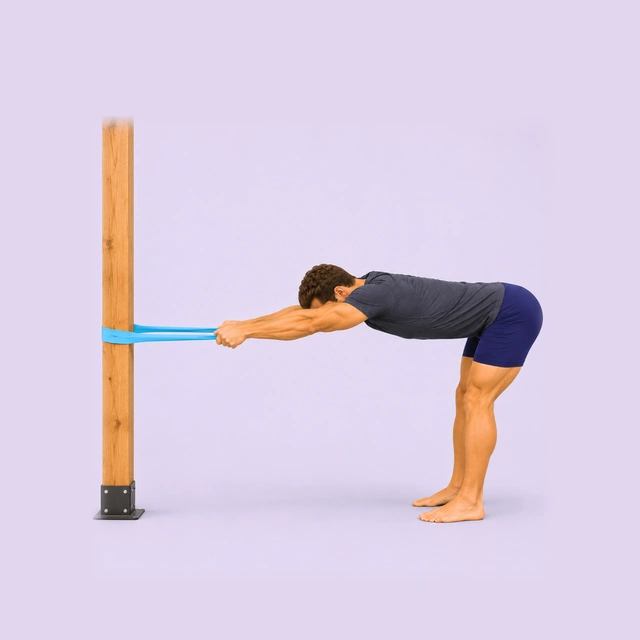
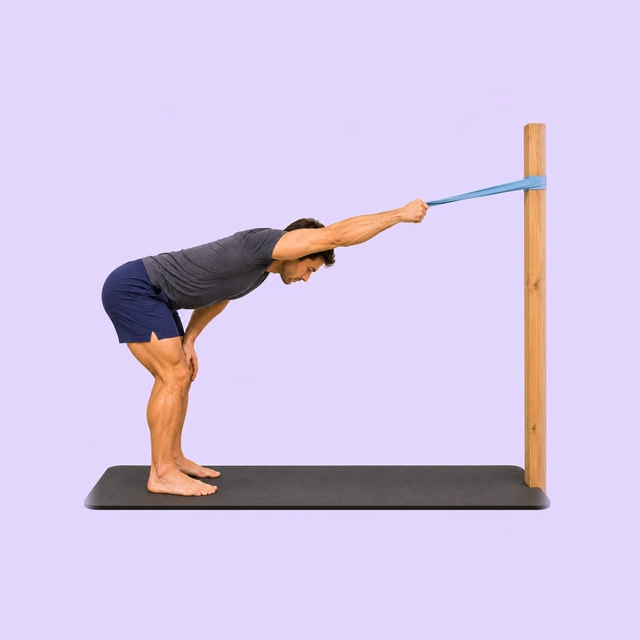
Publish cda5ddc6b18a: all 66 woman pictures, the Band Lat Stretch and Front Leg Swings redraws, and the first-week fixes (hockey plans, no '30 s holds' on moving routines)
Built from ccomp2013/meflex-source publish-abc (#15 + #32 + #28). Only index.html, sw.js and figures/*.webp.

Claude-Session: https://claude.ai/code/session_01VNuq4d9RwdVpz2hhqNG4nu

Changed region(s): [[0.125, 0.1562, 0.875, 0.8438]]

diff --git a/meflex-site/meflex-site/sw.js b/meflex-site/meflex-site/sw.js
@@ -5,7 +5,7 @@
 // those go to the network exactly as without it. It sends nothing of its own except fetching FILES from the site.
 // It never stores personal data: history, routines, settings and answers live in the page's own storage, not here.
 // A new version waits until the person taps Reload ("A new version is ready"); it never takes over by itself.
-const VERSION = 'ea75e2884296';
+const VERSION = 'cda5ddc6b18a';
 const FILES = ["index.html", "manifest.webmanifest", "apple-touch-icon.png", "icon-192.png", "icon-512.png"];
 // Nov 15 (recorded voice on the website): every recording the page may ask for (voice/manifest.json and voice/<key>.m4a).
 // None is fetched at install (4.2 MB). Each is kept the first time the page fetches it: the list when the Voice or coach
@@ -15,7 +15,7 @@ const VOICE = ["voice/manifest.json", "voice/001278fc.m4a", "voice/0012bbdf.m4a"
 // fetched at install (that could be many megabytes). Each one is kept the first time the page shows it, and the page
 // asks for a routine's player pictures when that routine is opened, so a routine started with a signal still has them
 // with none. They live in their own cache, which survives app updates; only pictures no longer listed are removed.
-const PICS = ["figures/ankledf-192.webp?v=2fbe904b", "figures/ankledf-640.webp?v=2fbe904b", "figures/ankledf-960.webp?v=2fbe904b", "figures/anklerock-192.webp?v=cd11ad1b", "figures/anklerock-640.webp?v=cd11ad1b", "figures/anklerock-960.webp?v=cd11ad1b", "figures/armcircles-192.webp?v=4655a5b3", "figures/armcircles-640.webp?v=4655a5b3", "figures/armcircles-960.webp?v=4655a5b3", "figures/bandadd-192.webp?v=7cb4ad47", "figures/bandadd-640.webp?v=7cb4ad47", "figures/bandadd-960.webp?v=7cb4ad47", "figures/bandcalf-192.webp?v=a96d5053", "figures/bandcalf-640.webp?v=a96d5053", "figures/bandcalf-960.webp?v=a96d5053", "figures/bandchest-192.webp?v=093ec867", "figures/bandchest-640.webp?v=093ec867", "figures/bandchest-960.webp?v=093ec867", "figures/bandcross-192.webp?v=690bf78d", "figures/bandcross-640.webp?v=690bf78d", "figures/bandcross-960.webp?v=690bf78d", "figures/bandham-192.webp?v=cc7fd8df", "figures/bandham-640.webp?v=cc7fd8df", "figures/bandham-960.webp?v=cc7fd8df", "figures/bandlat-192.webp?v=4703eeea", "figures/bandlat-640.webp?v=4703eeea", "figures/bandlat-960.webp?v=4703eeea", "figures/bandquad-192.webp?v=407bae69", "figures/bandquad-640.webp?v=407bae69", "figures/bandquad-960.webp?v=407bae69", "figures/butterfly-192.webp?v=ed941436", "figures/butterfly-640.webp?v=ed941436", "figures/butterfly-960.webp?v=ed941436", "figures/buttkicks-192.webp?v=08e6effa", "figures/buttkicks-640.webp?v=08e6effa", "figures/buttkicks-960.webp?v=08e6effa", "figures/calf-192.webp?v=0a14d5c0", "figures/calf-640.webp?v=0a14d5c0", "figures/calf-960.webp?v=0a14d5c0", "figures/calfdrop-192.webp?v=97c87646", "figures/calfdrop-640.webp?v=97c87646", "figures/calfdrop-960.webp?v=97c87646", "figures/catcow-192.webp?v=0cbc84a2", "figures/catcow-640.webp?v=0cbc84a2", "figures/catcow-960.webp?v=0cbc84a2", "figures/chairfig4-192.webp?v=3156b617", "figures/chairfig4-640.webp?v=3156b617", "figures/chairfig4-960.webp?v=3156b617", "figures/chairham-192.webp?v=79f2fa67", "figures/chairham-640.webp?v=79f2fa67", "figures/chairham-960.webp?v=79f2fa67", "figures/chestclasp-192.webp?v=1909fb8b", "figures/chestclasp-640.webp?v=1909fb8b", "figures/chestclasp-960.webp?v=1909fb8b", "figures/child-192.webp?v=e30eb409", "figures/child-640.webp?v=e30eb409", "figures/child-960.webp?v=e30eb409", "figures/chintuck-192.webp?v=a55b103f", "figures/chintuck-640.webp?v=a55b103f", "figures/chintuck-960.webp?v=a55b103f", "figures/cobra-192.webp?v=3b105fed", "figures/cobra-640.webp?v=3b105fed", "figures/cobra-960.webp?v=3b105fed", "figures/cossack-192.webp?v=711ddeef", "figures/cossack-640.webp?v=711ddeef", "figures/cossack-960.webp?v=711ddeef", "figures/couch-192.webp?v=45f44fa8", "figures/couch-640.webp?v=45f44fa8", "figures/couch-960.webp?v=45f44fa8", "figures/crossbody-192.webp?v=5f496ae8", "figures/crossbody-640.webp?v=5f496ae8", "figures/crossbody-960.webp?v=5f496ae8", "figures/dbfly-192.webp?v=10563170", "figures/dbfly-640.webp?v=10563170", "figures/dbfly-960.webp?v=10563170", "figures/doorway-192.webp?v=d289783c", "figures/doorway-640.webp?v=d289783c", "figures/doorway-960.webp?v=d289783c", "figures/downdog-192.webp?v=3109fa5a", "figures/downdog-640.webp?v=3109fa5a", "figures/downdog-960.webp?v=3109fa5a", "figures/figure4-192.webp?v=75c67c42", "figures/figure4-640.webp?v=75c67c42", "figures/figure4-960.webp?v=75c67c42", "figures/fold-192.webp?v=9a4d92d0", "figures/fold-640.webp?v=9a4d92d0", "figures/fold-960.webp?v=9a4d92d0", "figures/frog-192.webp?v=bf22872d", "figures/frog-640.webp?v=bf22872d", "figures/frog-960.webp?v=bf22872d", "figures/gate-192.webp?v=dd91927a", "figures/gate-640.webp?v=dd91927a", "figures/gate-960.webp?v=dd91927a", "figures/goblet-192.webp?v=47dedac9", "figures/goblet-640.webp?v=47dedac9", "figures/goblet-960.webp?v=47dedac9", "figures/groinhold-192.webp?v=d1287163", "figures/groinhold-640.webp?v=d1287163", "figures/groinhold-960.webp?v=d1287163", "figures/halfsplit-192.webp?v=f27b0572", "figures/halfsplit-640.webp?v=f27b0572", "figures/halfsplit-960.webp?v=f27b0572", "figures/happybaby-192.webp?v=d1ab1006", "figures/happybaby-640.webp?v=d1ab1006", "figures/happybaby-960.webp?v=d1ab1006", "figures/highknees-192.webp?v=a209c5df", "figures/highknees-640.webp?v=a209c5df", "figures/highknees-960.webp?v=a209c5df", "figures/hiplunge-192.webp?v=2f89a04e", "figures/hiplunge-640.webp?v=2f89a04e", "figures/hiplunge-960.webp?v=2f89a04e", "figures/inchworm-192.webp?v=344036cf", "figures/inchworm-640.webp?v=344036cf", "figures/inchworm-960.webp?v=344036cf", "figures/kneeschest-192.webp?v=b5d6dc38", "figures/kneeschest-640.webp?v=b5d6dc38", "figures/kneeschest-960.webp?v=b5d6dc38", "figures/lateral-192.webp?v=25f04159", "figures/lateral-640.webp?v=25f04159", "figures/lateral-960.webp?v=25f04159", "figures/legswing-192.webp?v=24d09d3d", "figures/legswing-640.webp?v=24d09d3d", "figures/legswing-960.webp?v=24d09d3d", "figures/levator-192.webp?v=8760091f", "figures/levator-640.webp?v=8760091f", "figures/levator-960.webp?v=8760091f", "figures/lizard-192.webp?v=8d0d0fd1", "figures/lizard-640.webp?v=8d0d0fd1", "figures/lizard-960.webp?v=8d0d0fd1", "figures/lunge-192.webp?v=25293428", "figures/lunge-640.webp?v=25293428", "figures/lunge-960.webp?v=25293428", "figures/lyingham-192.webp?v=1cb729bc", "figures/lyingham-640.webp?v=1cb729bc", "figures/lyingham-960.webp?v=1cb729bc", "figures/necktilt-192.webp?v=6dc8f687", "figures/necktilt-640.webp?v=6dc8f687", "figures/necktilt-960.webp?v=6dc8f687", "figures/neckturn-192.webp?v=50a8b26d", "figures/neckturn-640.webp?v=50a8b26d", "figures/neckturn-960.webp?v=50a8b26d", "figures/passthrough-192.webp?v=ed8b9ed1", "figures/passthrough-640.webp?v=ed8b9ed1", "figures/passthrough-960.webp?v=ed8b9ed1", "figures/pigeon-192.webp?v=b20192ee", "figures/pigeon-640.webp?v=b20192ee", "figures/pigeon-960.webp?v=b20192ee", "figures/postwall-192.webp?v=ad875854", "figures/postwall-640.webp?v=ad875854", "figures/postwall-960.webp?v=ad875854", "figures/pullover-192.webp?v=e8820e95", "figures/pullover-640.webp?v=e8820e95", "figures/pullover-960.webp?v=e8820e95", "figures/puppy-192.webp?v=8e5dd34e", "figures/puppy-640.webp?v=8e5dd34e", "figures/puppy-960.webp?v=8e5dd34e", "figures/quad-192.webp?v=6250f0f8", "figures/quad-640.webp?v=6250f0f8", "figures/quad-960.webp?v=6250f0f8", "figures/rdlhold-192.webp?v=147b3bbf", "figures/rdlhold-640.webp?v=147b3bbf", "figures/rdlhold-960.webp?v=147b3bbf", "figures/seatedtwist-192.webp?v=c94f4c98", "figures/seatedtwist-640.webp?v=c94f4c98", "figures/seatedtwist-960.webp?v=c94f4c98", "figures/sidebend-192.webp?v=610313c9", "figures/sidebend-640.webp?v=610313c9", "figures/sidebend-960.webp?v=610313c9", "figures/sidequad-192.webp?v=c3d587b5", "figures/sidequad-640.webp?v=c3d587b5", "figures/sidequad-960.webp?v=c3d587b5", "figures/sideswing-192.webp?v=9d98492e", "figures/sideswing-640.webp?v=9d98492e", "figures/sideswing-960.webp?v=9d98492e", "figures/skatestance-192.webp?v=6f9565a9", "figures/skatestance-640.webp?v=6f9565a9", "figures/skatestance-960.webp?v=6f9565a9", "figures/sphinx-192.webp?v=8349a4d2", "figures/sphinx-640.webp?v=8349a4d2", "figures/sphinx-960.webp?v=8349a4d2", "figures/standfold-192.webp?v=d3455a11", "figures/standfold-640.webp?v=d3455a11", "figures/standfold-960.webp?v=d3455a11", "figures/suitcase-192.webp?v=faeb34cb", "figures/suitcase-640.webp?v=faeb34cb", "figures/suitcase-960.webp?v=faeb34cb", "figures/thread-192.webp?v=04dc8a99", "figures/thread-640.webp?v=04dc8a99", "figures/thread-960.webp?v=04dc8a99", "figures/torsotwist-192.webp?v=815f4fc0", "figures/torsotwist-640.webp?v=815f4fc0", "figures/torsotwist-960.webp?v=815f4fc0", "figures/twist-192.webp?v=183f0d8f", "figures/twist-640.webp?v=183f0d8f", "figures/twist-960.webp?v=183f0d8f", "figures/walklunge-192.webp?v=cb874fd0", "figures/walklunge-640.webp?v=cb874fd0", "figures/walklunge-960.webp?v=cb874fd0"];
+const PICS = ["figures/ankledf-192.webp?v=2fbe904b", "figures/ankledf-640.webp?v=2fbe904b", "figures/ankledf-960.webp?v=2fbe904b", "figures/anklerock-192.webp?v=cd11ad1b", "figures/anklerock-640.webp?v=cd11ad1b", "figures/anklerock-960.webp?v=cd11ad1b", "figures/armcircles-192.webp?v=4655a5b3", "figures/armcircles-640.webp?v=4655a5b3", "figures/armcircles-960.webp?v=4655a5b3", "figures/bandadd-192.webp?v=7cb4ad47", "figures/bandadd-640.webp?v=7cb4ad47", "figures/bandadd-960.webp?v=7cb4ad47", "figures/bandcalf-192.webp?v=a96d5053", "figures/bandcalf-640.webp?v=a96d5053", "figures/bandcalf-960.webp?v=a96d5053", "figures/bandchest-192.webp?v=093ec867", "figures/bandchest-640.webp?v=093ec867", "figures/bandchest-960.webp?v=093ec867", "figures/bandcross-192.webp?v=690bf78d", "figures/bandcross-640.webp?v=690bf78d", "figures/bandcross-960.webp?v=690bf78d", "figures/bandham-192.webp?v=cc7fd8df", "figures/bandham-640.webp?v=cc7fd8df", "figures/bandham-960.webp?v=cc7fd8df", "figures/bandlat-192.webp?v=af0c8982", "figures/bandlat-640.webp?v=af0c8982", "figures/bandlat-960.webp?v=af0c8982", "figures/bandquad-192.webp?v=407bae69", "figures/bandquad-640.webp?v=407bae69", "figures/bandquad-960.webp?v=407bae69", "figures/butterfly-192.webp?v=ed941436", "figures/butterfly-640.webp?v=ed941436", "figures/butterfly-960.webp?v=ed941436", "figures/buttkicks-192.webp?v=08e6effa", "figures/buttkicks-640.webp?v=08e6effa", "figures/buttkicks-960.webp?v=08e6effa", "figures/calf-192.webp?v=0a14d5c0", "figures/calf-640.webp?v=0a14d5c0", "figures/calf-960.webp?v=0a14d5c0", "figures/calfdrop-192.webp?v=97c87646", "figures/calfdrop-640.webp?v=97c87646", "figures/calfdrop-960.webp?v=97c87646", "figures/catcow-192.webp?v=0cbc84a2", "figures/catcow-640.webp?v=0cbc84a2", "figures/catcow-960.webp?v=0cbc84a2", "figures/chairfig4-192.webp?v=3156b617", "figures/chairfig4-640.webp?v=3156b617", "figures/chairfig4-960.webp?v=3156b617", "figures/chairham-192.webp?v=79f2fa67", "figures/chairham-640.webp?v=79f2fa67", "figures/chairham-960.webp?v=79f2fa67", "figures/chestclasp-192.webp?v=1909fb8b", "figures/chestclasp-640.webp?v=1909fb8b", "figures/chestclasp-960.webp?v=1909fb8b", "figures/child-192.webp?v=e30eb409", "figures/child-640.webp?v=e30eb409", "figures/child-960.webp?v=e30eb409", "figures/chintuck-192.webp?v=a55b103f", "figures/chintuck-640.webp?v=a55b103f", "figures/chintuck-960.webp?v=a55b103f", "figures/cobra-192.webp?v=3b105fed", "figures/cobra-640.webp?v=3b105fed", "figures/cobra-960.webp?v=3b105fed", "figures/cossack-192.webp?v=711ddeef", "figures/cossack-640.webp?v=711ddeef", "figures/cossack-960.webp?v=711ddeef", "figures/couch-192.webp?v=45f44fa8", "figures/couch-640.webp?v=45f44fa8", "figures/couch-960.webp?v=45f44fa8", "figures/crossbody-192.webp?v=5f496ae8", "figures/crossbody-640.webp?v=5f496ae8", "figures/crossbody-960.webp?v=5f496ae8", "figures/dbfly-192.webp?v=10563170", "figures/dbfly-640.webp?v=10563170", "figures/dbfly-960.webp?v=10563170", "figures/doorway-192.webp?v=d289783c", "figures/doorway-640.webp?v=d289783c", "figures/doorway-960.webp?v=d289783c", "figures/downdog-192.webp?v=3109fa5a", "figures/downdog-640.webp?v=3109fa5a", "figures/downdog-960.webp?v=3109fa5a", "figures/figure4-192.webp?v=75c67c42", "figures/figure4-640.webp?v=75c67c42", "figures/figure4-960.webp?v=75c67c42", "figures/fold-192.webp?v=9a4d92d0", "figures/fold-640.webp?v=9a4d92d0", "figures/fold-960.webp?v=9a4d92d0", "figures/frog-192.webp?v=bf22872d", "figures/frog-640.webp?v=bf22872d", "figures/frog-960.webp?v=bf22872d", "figures/gate-192.webp?v=dd91927a", "figures/gate-640.webp?v=dd91927a", "figures/gate-960.webp?v=dd91927a", "figures/goblet-192.webp?v=47dedac9", "figures/goblet-640.webp?v=47dedac9", "figures/goblet-960.webp?v=47dedac9", "figures/groinhold-192.webp?v=d1287163", "figures/groinhold-640.webp?v=d1287163", "figures/groinhold-960.webp?v=d1287163", "figures/halfsplit-192.webp?v=f27b0572", "figures/halfsplit-640.webp?v=f27b0572", "figures/halfsplit-960.webp?v=f27b0572", "figures/happybaby-192.webp?v=d1ab1006", "figures/happybaby-640.webp?v=d1ab1006", "figures/happybaby-960.webp?v=d1ab1006", "figures/highknees-192.webp?v=a209c5df", "figures/highknees-640.webp?v=a209c5df", "figures/highknees-960.webp?v=a209c5df", "figures/hiplunge-192.webp?v=2f89a04e", "figures/hiplunge-640.webp?v=2f89a04e", "figures/hiplunge-960.webp?v=2f89a04e", "figures/inchworm-192.webp?v=344036cf", "figures/inchworm-640.webp?v=344036cf", "figures/inchworm-960.webp?v=344036cf", "figures/kneeschest-192.webp?v=b5d6dc38", "figures/kneeschest-640.webp?v=b5d6dc38", "figures/kneeschest-960.webp?v=b5d6dc38", "figures/lateral-192.webp?v=25f04159", "figures/lateral-640.webp?v=25f04159", "figures/lateral-960.webp?v=25f04159", "figures/legswing-192.webp?v=9b343d2d", "figures/legswing-640.webp?v=9b343d2d", "figures/legswing-960.webp?v=9b343d2d", "figures/levator-192.webp?v=8760091f", "figures/levator-640.webp?v=8760091f", "figures/levator-960.webp?v=8760091f", "figures/lizard-192.webp?v=8d0d0fd1", "figures/lizard-640.webp?v=8d0d0fd1", "figures/lizard-960.webp?v=8d0d0fd1", "figures/lunge-192.webp?v=25293428", "figures/lunge-640.webp?v=25293428", "figures/lunge-960.webp?v=25293428", "figures/lyingham-192.webp?v=1cb729bc", "figures/lyingham-640.webp?v=1cb729bc", "figures/lyingham-960.webp?v=1cb729bc", "figures/necktilt-192.webp?v=6dc8f687", "figures/necktilt-640.webp?v=6dc8f687", "figures/necktilt-960.webp?v=6dc8f687", "figures/neckturn-192.webp?v=50a8b26d", "figures/neckturn-640.webp?v=50a8b26d", "figures/neckturn-960.webp?v=50a8b26d", "figures/passthrough-192.webp?v=ed8b9ed1", "figures/passthrough-640.webp?v=ed8b9ed1", "figures/passthrough-960.webp?v=ed8b9ed1", "figures/pigeon-192.webp?v=b20192ee", "figures/pigeon-640.webp?v=b20192ee", "figures/pigeon-960.webp?v=b20192ee", "figures/postwall-192.webp?v=ad875854", "figures/postwall-640.webp?v=ad875854", "figures/postwall-960.webp?v=ad875854", "figures/pullover-192.webp?v=e8820e95", "figures/pullover-640.webp?v=e8820e95", "figures/pullover-960.webp?v=e8820e95", "figures/puppy-192.webp?v=8e5dd34e", "figures/puppy-640.webp?v=8e5dd34e", "figures/puppy-960.webp?v=8e5dd34e", "figures/quad-192.webp?v=6250f0f8", "figures/quad-640.webp?v=6250f0f8", "figures/quad-960.webp?v=6250f0f8", "figures/rdlhold-192.webp?v=147b3bbf", "figures/rdlhold-640.webp?v=147b3bbf", "figures/rdlhold-960.webp?v=147b3bbf", "figures/seatedtwist-192.webp?v=c94f4c98", "figures/seatedtwist-640.webp?v=c94f4c98", "figures/seatedtwist-960.webp?v=c94f4c98", "figures/sidebend-192.webp?v=610313c9", "figures/sidebend-640.webp?v=610313c9", "figures/sidebend-960.webp?v=610313c9", "figures/sidequad-192.webp?v=c3d587b5", "figures/sidequad-640.webp?v=c3d587b5", "figures/sidequad-960.webp?v=c3d587b5", "figures/sideswing-192.webp?v=9d98492e", "figures/sideswing-640.webp?v=9d98492e", "figures/sideswing-960.webp?v=9d98492e", "figures/skatestance-192.webp?v=6f9565a9", "figures/skatestance-640.webp?v=6f9565a9", "figures/skatestance-960.webp?v=6f9565a9", "figures/sphinx-192.webp?v=8349a4d2", "figures/sphinx-640.webp?v=8349a4d2", "figures/sphinx-960.webp?v=8349a4d2", "figures/standfold-192.webp?v=d3455a11", "figures/standfold-640.webp?v=d3455a11", "figures/standfold-960.webp?v=d3455a11", "figures/suitcase-192.webp?v=faeb34cb", "figures/suitcase-640.webp?v=faeb34cb", "figures/suitcase-960.webp?v=faeb34cb", "figures/thread-192.webp?v=04dc8a99", "figures/thread-640.webp?v=04dc8a99", "figures/thread-960.webp?v=04dc8a99", "figures/torsotwist-192.webp?v=815f4fc0", "figures/torsotwist-640.webp?v=815f4fc0", "figures/torsotwist-960.webp?v=815f4fc0", "figures/twist-192.webp?v=183f0d8f", "figures/twist-640.webp?v=183f0d8f", "figures/twist-960.webp?v=183f0d8f", "figures/w-ankledf-192.webp?v=f0af4e86", "figures/w-ankledf-640.webp?v=f0af4e86", "figures/w-ankledf-960.webp?v=f0af4e86", "figures/w-anklerock-192.webp?v=bec78cbe", "figures/w-anklerock-640.webp?v=bec78cbe", "figures/w-anklerock-960.webp?v=bec78cbe", "figures/w-armcircles-192.webp?v=20e1b17d", "figures/w-armcircles-640.webp?v=20e1b17d", "figures/w-armcircles-960.webp?v=20e1b17d", "figures/w-bandadd-192.webp?v=37af3562", "figures/w-bandadd-640.webp?v=37af3562", "figures/w-bandadd-960.webp?v=37af3562", "figures/w-bandcalf-192.webp?v=a7ca095b", "figures/w-bandcalf-640.webp?v=a7ca095b", "figures/w-bandcalf-960.webp?v=a7ca095b", "figures/w-bandchest-192.webp?v=b4c47cae", "figures/w-bandchest-640.webp?v=b4c47cae", "figures/w-bandchest-960.webp?v=b4c47cae", "figures/w-bandcross-192.webp?v=0378abb0", "figures/w-bandcross-640.webp?v=0378abb0", "figures/w-bandcross-960.webp?v=0378abb0", "figures/w-bandham-192.webp?v=69ea0463", "figures/w-bandham-640.webp?v=69ea0463", "figures/w-bandham-960.webp?v=69ea0463", "figures/w-bandlat-192.webp?v=32398a04", "figures/w-bandlat-640.webp?v=32398a04", "figures/w-bandlat-960.webp?v=32398a04", "figures/w-bandquad-192.webp?v=55222718", "figures/w-bandquad-640.webp?v=55222718", "figures/w-bandquad-960.webp?v=55222718", "figures/w-butterfly-192.webp?v=3771c93c", "figures/w-butterfly-640.webp?v=3771c93c", "figures/w-butterfly-960.webp?v=3771c93c", "figures/w-buttkicks-192.webp?v=002ca8e3", "figures/w-buttkicks-640.webp?v=002ca8e3", "figures/w-buttkicks-960.webp?v=002ca8e3", "figures/w-calf-192.webp?v=bf30e4cb", "figures/w-calf-640.webp?v=bf30e4cb", "figures/w-calf-960.webp?v=bf30e4cb", "figures/w-calfdrop-192.webp?v=f9c8a021", "figures/w-calfdrop-640.webp?v=f9c8a021", "figures/w-calfdrop-960.webp?v=f9c8a021", "figures/w-catcow-192.webp?v=0d9bf87a", "figures/w-catcow-640.webp?v=0d9bf87a", "figures/w-catcow-960.webp?v=0d9bf87a", "figures/w-chairfig4-192.webp?v=e9703627", "figures/w-chairfig4-640.webp?v=e9703627", "figures/w-chairfig4-960.webp?v=e9703627", "figures/w-chairham-192.webp?v=600c5e2c", "figures/w-chairham-640.webp?v=600c5e2c", "figures/w-chairham-960.webp?v=600c5e2c", "figures/w-chestclasp-192.webp?v=4af09d9a", "figures/w-chestclasp-640.webp?v=4af09d9a", "figures/w-chestclasp-960.webp?v=4af09d9a", "figures/w-child-192.webp?v=855e0673", "figures/w-child-640.webp?v=855e0673", "figures/w-child-960.webp?v=855e0673", "figures/w-chintuck-192.webp?v=8f234c93", "figures/w-chintuck-640.webp?v=8f234c93", "figures/w-chintuck-960.webp?v=8f234c93", "figures/w-cobra-192.webp?v=7be58832", "figures/w-cobra-640.webp?v=7be58832", "figures/w-cobra-960.webp?v=7be58832", "figures/w-cossack-192.webp?v=beada11e", "figures/w-cossack-640.webp?v=beada11e", "figures/w-cossack-960.webp?v=beada11e", "figures/w-couch-192.webp?v=6c2f0b9c", "figures/w-couch-640.webp?v=6c2f0b9c", "figures/w-couch-960.webp?v=6c2f0b9c", "figures/w-crossbody-192.webp?v=d6de1afc", "figures/w-crossbody-640.webp?v=d6de1afc", "figures/w-crossbody-960.webp?v=d6de1afc", "figures/w-dbfly-192.webp?v=ac888e12", "figures/w-dbfly-640.webp?v=ac888e12", "figures/w-dbfly-960.webp?v=ac888e12", "figures/w-doorway-192.webp?v=99234351", "figures/w-doorway-640.webp?v=99234351", "figures/w-doorway-960.webp?v=99234351", "figures/w-downdog-192.webp?v=1d1f8be1", "figures/w-downdog-640.webp?v=1d1f8be1", "figures/w-downdog-960.webp?v=1d1f8be1", "figures/w-figure4-192.webp?v=afebc674", "figures/w-figure4-640.webp?v=afebc674", "figures/w-figure4-960.webp?v=afebc674", "figures/w-fold-192.webp?v=656f481f", "figures/w-fold-640.webp?v=656f481f", "figures/w-fold-960.webp?v=656f481f", "figures/w-frog-192.webp?v=f451a50e", "figures/w-frog-640.webp?v=f451a50e", "figures/w-frog-960.webp?v=f451a50e", "figures/w-gate-192.webp?v=549ddd89", "figures/w-gate-640.webp?v=549ddd89", "figures/w-gate-960.webp?v=549ddd89", "figures/w-goblet-192.webp?v=537b4583", "figures/w-goblet-640.webp?v=537b4583", "figures/w-goblet-960.webp?v=537b4583", "figures/w-groinhold-192.webp?v=9df46b9d", "figures/w-groinhold-640.webp?v=9df46b9d", "figures/w-groinhold-960.webp?v=9df46b9d", "figures/w-halfsplit-192.webp?v=20662c61", "figures/w-halfsplit-640.webp?v=20662c61", "figures/w-halfsplit-960.webp?v=20662c61", "figures/w-happybaby-192.webp?v=0658ab32", "figures/w-happybaby-640.webp?v=0658ab32", "figures/w-happybaby-960.webp?v=0658ab32", "figures/w-highknees-192.webp?v=bdc00bbb", "figures/w-highknees-640.webp?v=bdc00bbb", "figures/w-highknees-960.webp?v=bdc00bbb", "figures/w-hiplunge-192.webp?v=c917d115", "figures/w-hiplunge-640.webp?v=c917d115", "figures/w-hiplunge-960.webp?v=c917d115", "figures/w-inchworm-192.webp?v=577c28df", "figures/w-inchworm-640.webp?v=577c28df", "figures/w-inchworm-960.webp?v=577c28df", "figures/w-kneeschest-192.webp?v=743a6dfa", "figures/w-kneeschest-640.webp?v=743a6dfa", "figures/w-kneeschest-960.webp?v=743a6dfa", "figures/w-lateral-192.webp?v=3cb2a7d3", "figures/w-lateral-640.webp?v=3cb2a7d3", "figures/w-lateral-960.webp?v=3cb2a7d3", "figures/w-legswing-192.webp?v=fcf623c6", "figures/w-legswing-640.webp?v=fcf623c6", "figures/w-legswing-960.webp?v=fcf623c6", "figures/w-levator-192.webp?v=d166c57a", "figures/w-levator-640.webp?v=d166c57a", "figures/w-levator-960.webp?v=d166c57a", "figures/w-lizard-192.webp?v=7cc08ab2", "figures/w-lizard-640.webp?v=7cc08ab2", "figures/w-lizard-960.webp?v=7cc08ab2", "figures/w-lunge-192.webp?v=63866dc2", "figures/w-lunge-640.webp?v=63866dc2", "figures/w-lunge-960.webp?v=63866dc2", "figures/w-lyingham-192.webp?v=fe759cfe", "figures/w-lyingham-640.webp?v=fe759cfe", "figures/w-lyingham-960.webp?v=fe759cfe", "figures/w-necktilt-192.webp?v=22924b2f", "figures/w-necktilt-640.webp?v=22924b2f", "figures/w-necktilt-960.webp?v=22924b2f", "figures/w-neckturn-192.webp?v=5af43185", "figures/w-neckturn-640.webp?v=5af43185", "figures/w-neckturn-960.webp?v=5af43185", "figures/w-passthrough-192.webp?v=10bfce31", "figures/w-passthrough-640.webp?v=10bfce31", "figures/w-passthrough-960.webp?v=10bfce31", "figures/w-pigeon-192.webp?v=a89b8f65", "figures/w-pigeon-640.webp?v=a89b8f65", "figures/w-pigeon-960.webp?v=a89b8f65", "figures/w-postwall-192.webp?v=b8e7a79c", "figures/w-postwall-640.webp?v=b8e7a79c", "figures/w-postwall-960.webp?v=b8e7a79c", "figures/w-pullover-192.webp?v=15239280", "figures/w-pullover-640.webp?v=15239280", "figures/w-pullover-960.webp?v=15239280", "figures/w-puppy-192.webp?v=058ca523", "figures/w-puppy-640.webp?v=058ca523", "figures/w-puppy-960.webp?v=058ca523", "figures/w-quad-192.webp?v=1b58687d", "figures/w-quad-640.webp?v=1b58687d", "figures/w-quad-960.webp?v=1b58687d", "figures/w-rdlhold-192.webp?v=06b1b1c0", "figures/w-rdlhold-640.webp?v=06b1b1c0", "figures/w-rdlhold-960.webp?v=06b1b1c0", "figures/w-seatedtwist-192.webp?v=09e1504d", "figures/w-seatedtwist-640.webp?v=09e1504d", "figures/w-seatedtwist-960.webp?v=09e1504d", "figures/w-sidebend-192.webp?v=6f735ad6", "figures/w-sidebend-640.webp?v=6f735ad6", "figures/w-sidebend-960.webp?v=6f735ad6", "figures/w-sidequad-192.webp?v=5a2dfb1a", "figures/w-sidequad-640.webp?v=5a2dfb1a", "figures/w-sidequad-960.webp?v=5a2dfb1a", "figures/w-sideswing-192.webp?v=484561d0", "figures/w-sideswing-640.webp?v=484561d0", "figures/w-sideswing-960.webp?v=484561d0", "figures/w-skatestance-192.webp?v=82716257", "figures/w-skatestance-640.webp?v=82716257", "figures/w-skatestance-960.webp?v=82716257", "figures/w-sphinx-192.webp?v=4fdcb7fe", "figures/w-sphinx-640.webp?v=4fdcb7fe", "figures/w-sphinx-960.webp?v=4fdcb7fe", "figures/w-standfold-192.webp?v=b34553d0", "figures/w-standfold-640.webp?v=b34553d0", "figures/w-standfold-960.webp?v=b34553d0", "figures/w-suitcase-192.webp?v=45e68e4c", "figures/w-suitcase-640.webp?v=45e68e4c", "figures/w-suitcase-960.webp?v=45e68e4c", "figures/w-thread-192.webp?v=d2486033", "figures/w-thread-640.webp?v=d2486033", "figures/w-thread-960.webp?v=d2486033", "figures/w-torsotwist-192.webp?v=890d2d43", "figures/w-torsotwist-640.webp?v=890d2d43", "figures/w-torsotwist-960.webp?v=890d2d43", "figures/w-twist-192.webp?v=f2c23353", "figures/w-twist-640.webp?v=f2c23353", "figures/w-twist-960.webp?v=f2c23353", "figures/w-walklunge-192.webp?v=7d9e101b", "figures/w-walklunge-640.webp?v=7d9e101b", "figures/w-walklunge-960.webp?v=7d9e101b", "figures/walklunge-192.webp?v=cb874fd0", "figures/walklunge-640.webp?v=cb874fd0", "figures/walklunge-960.webp?v=cb874fd0"];
 const BASE = self.registration.scope; // the folder sw.js lives in, e.g. https://example.github.io/meflex/meflex-site/meflex-site/
 // Hardening: cache names carry a tag of this folder, so another copy of MeFlex on the same address keeps its own offline
 // files. Caches from before this change (meflex-offline-<12 hex>) are cleared once.

diff --git a/meflex-site/meflex-site/index.html b/meflex-site/meflex-site/index.html
@@ -13,7 +13,7 @@
 <link rel="icon" type="image/png" sizes="192x192" href="icon-192.png">
 <link rel="manifest" href="manifest.webmanifest">
 <meta name="meflex-sw" content="sw.js">
-<meta name="meflex-version" content="ea75e2884296">
+<meta name="meflex-version" content="cda5ddc6b18a">
 <meta name="meflex-voice" content="voice/">
 <title>MeFlex</title>
 <meta name="claude:viewport-fit-sides" content="cover">
@@ -1518,7 +1518,7 @@ Object.entries(KID_STEPS).forEach(([id, steps]) => { const st = STRETCHES.find(s
 const SUPPORTED = ['groinhold', 'ankledf', 'postwall', 'chairfig4', 'chairham', 'seatedtwist', 'necktilt', 'levator', 'chintuck', 'neckturn', 'calf', 'doorway', 'crossbody', 'chestclasp', 'bandchest'];
 STRETCHES.forEach(s => { s.supported = SUPPORTED.includes(s.id); });
 const BY_ID = Object.fromEntries(STRETCHES.map(s => [s.id, s]));
-const PICS = {"ankledf":{"v":"2fbe904b","loop":null},"anklerock":{"v":"cd11ad1b","loop":null},"armcircles":{"v":"4655a5b3","loop":null},"bandadd":{"v":"7cb4ad47","loop":null},"bandcalf":{"v":"a96d5053","loop":null},"bandchest":{"v":"093ec867","loop":null},"bandcross":{"v":"690bf78d","loop":null},"bandham":{"v":"cc7fd8df","loop":null},"bandlat":{"v":"4703eeea","loop":null},"bandquad":{"v":"407bae69","loop":null},"butterfly":{"v":"ed941436","loop":null},"buttkicks":{"v":"08e6effa","loop":null},"calf":{"v":"0a14d5c0","loop":null},"calfdrop":{"v":"97c87646","loop":null},"catcow":{"v":"0cbc84a2","loop":null},"chairfig4":{"v":"3156b617","loop":null},"chairham":{"v":"79f2fa67","loop":null},"chestclasp":{"v":"1909fb8b","loop":null},"child":{"v":"e30eb409","loop":null},"chintuck":{"v":"a55b103f","loop":null},"cobra":{"v":"3b105fed","loop":null},"cossack":{"v":"711ddeef","loop":null},"couch":{"v":"45f44fa8","loop":null},"crossbody":{"v":"5f496ae8","loop":null},"dbfly":{"v":"10563170","loop":null},"doorway":{"v":"d289783c","loop":null},"downdog":{"v":"3109fa5a","loop":null},"figure4":{"v":"75c67c42","loop":null},"fold":{"v":"9a4d92d0","loop":null},"frog":{"v":"bf22872d","loop":null},"gate":{"v":"dd91927a","loop":null},"goblet":{"v":"47dedac9","loop":null},"groinhold":{"v":"d1287163","loop":null},"halfsplit":{"v":"f27b0572","loop":null},"happybaby":{"v":"d1ab1006","loop":null},"highknees":{"v":"a209c5df","loop":null},"hiplunge":{"v":"2f89a04e","loop":null},"inchworm":{"v":"344036cf","loop":null},"kneeschest":{"v":"b5d6dc38","loop":null},"lateral":{"v":"25f04159","loop":null},"legswing":{"v":"24d09d3d","loop":null},"levator":{"v":"8760091f","loop":null},"lizard":{"v":"8d0d0fd1","loop":null},"lunge":{"v":"25293428","loop":null},"lyingham":{"v":"1cb729bc","loop":null},"necktilt":{"v":"6dc8f687","loop":null},"neckturn":{"v":"50a8b26d","loop":null},"passthrough":{"v":"ed8b9ed1","loop":null},"pigeon":{"v":"b20192ee","loop":null},"postwall":{"v":"ad875854","loop":null},"pullover":{"v":"e8820e95","loop":null},"puppy":{"v":"8e5dd34e","loop":null},"quad":{"v":"6250f0f8","loop":null},"rdlhold":{"v":"147b3bbf","loop":null},"seatedtwist":{"v":"c94f4c98","loop":null},"sidebend":{"v":"610313c9","loop":null},"sidequad":{"v":"c3d587b5","loop":null},"sideswing":{"v":"9d98492e","loop":null},"skatestance":{"v":"6f9565a9","loop":null},"sphinx":{"v":"8349a4d2","loop":null},"standfold":{"v":"d3455a11","loop":null},"suitcase":{"v":"faeb34cb","loop":null},"thread":{"v":"04dc8a99","loop":null},"torsotwist":{"v":"815f4fc0","loop":null},"twist":{"v":"183f0d8f","loop":null},"walklunge":{"v":"cb874fd0","loop":null}};
+const PICS = {"ankledf":{"v":"2fbe904b","loop":null},"anklerock":{"v":"cd11ad1b","loop":null},"armcircles":{"v":"4655a5b3","loop":null},"bandadd":{"v":"7cb4ad47","loop":null},"bandcalf":{"v":"a96d5053","loop":null},"bandchest":{"v":"093ec867","loop":null},"bandcross":{"v":"690bf78d","loop":null},"bandham":{"v":"cc7fd8df","loop":null},"bandlat":{"v":"af0c8982","loop":null},"bandquad":{"v":"407bae69","loop":null},"butterfly":{"v":"ed941436","loop":null},"buttkicks":{"v":"08e6effa","loop":null},"calf":{"v":"0a14d5c0","loop":null},"calfdrop":{"v":"97c87646","loop":null},"catcow":{"v":"0cbc84a2","loop":null},"chairfig4":{"v":"3156b617","loop":null},"chairham":{"v":"79f2fa67","loop":null},"chestclasp":{"v":"1909fb8b","loop":null},"child":{"v":"e30eb409","loop":null},"chintuck":{"v":"a55b103f","loop":null},"cobra":{"v":"3b105fed","loop":null},"cossack":{"v":"711ddeef","loop":null},"couch":{"v":"45f44fa8","loop":null},"crossbody":{"v":"5f496ae8","loop":null},"dbfly":{"v":"10563170","loop":null},"doorway":{"v":"d289783c","loop":null},"downdog":{"v":"3109fa5a","loop":null},"figure4":{"v":"75c67c42","loop":null},"fold":{"v":"9a4d92d0","loop":null},"frog":{"v":"bf22872d","loop":null},"gate":{"v":"dd91927a","loop":null},"goblet":{"v":"47dedac9","loop":null},"groinhold":{"v":"d1287163","loop":null},"halfsplit":{"v":"f27b0572","loop":null},"happybaby":{"v":"d1ab1006","loop":null},"highknees":{"v":"a209c5df","loop":null},"hiplunge":{"v":"2f89a04e","loop":null},"inchworm":{"v":"344036cf","loop":null},"kneeschest":{"v":"b5d6dc38","loop":null},"lateral":{"v":"25f04159","loop":null},"legswing":{"v":"9b343d2d","loop":null},"levator":{"v":"8760091f","loop":null},"lizard":{"v":"8d0d0fd1","loop":null},"lunge":{"v":"25293428","loop":null},"lyingham":{"v":"1cb729bc","loop":null},"necktilt":{"v":"6dc8f687","loop":null},"neckturn":{"v":"50a8b26d","loop":null},"passthrough":{"v":"ed8b9ed1","loop":null},"pigeon":{"v":"b20192ee","loop":null},"postwall":{"v":"ad875854","loop":null},"pullover":{"v":"e8820e95","loop":null},"puppy":{"v":"8e5dd34e","loop":null},"quad":{"v":"6250f0f8","loop":null},"rdlhold":{"v":"147b3bbf","loop":null},"seatedtwist":{"v":"c94f4c98","loop":null},"sidebend":{"v":"610313c9","loop":null},"sidequad":{"v":"c3d587b5","loop":null},"sideswing":{"v":"9d98492e","loop":null},"skatestance":{"v":"6f9565a9","loop":null},"sphinx":{"v":"8349a4d2","loop":null},"standfold":{"v":"d3455a11","loop":null},"suitcase":{"v":"faeb34cb","loop":null},"thread":{"v":"04dc8a99","loop":null},"torsotwist":{"v":"815f4fc0","loop":null},"twist":{"v":"183f0d8f","loop":null},"w-ankledf":{"v":"f0af4e86","loop":null},"w-anklerock":{"v":"bec78cbe","loop":null},"w-armcircles":{"v":"20e1b17d","loop":null},"w-bandadd":{"v":"37af3562","loop":null},"w-bandcalf":{"v":"a7ca095b","loop":null},"w-bandchest":{"v":"b4c47cae","loop":null},"w-bandcross":{"v":"0378abb0","loop":null},"w-bandham":{"v":"69ea0463","loop":null},"w-bandlat":{"v":"32398a04","loop":null},"w-bandquad":{"v":"55222718","loop":null},"w-butterfly":{"v":"3771c93c","loop":null},"w-buttkicks":{"v":"002ca8e3","loop":null},"w-calf":{"v":"bf30e4cb","loop":null},"w-calfdrop":{"v":"f9c8a021","loop":null},"w-catcow":{"v":"0d9bf87a","loop":null},"w-chairfig4":{"v":"e9703627","loop":null},"w-chairham":{"v":"600c5e2c","loop":null},"w-chestclasp":{"v":"4af09d9a","loop":null},"w-child":{"v":"855e0673","loop":null},"w-chintuck":{"v":"8f234c93","loop":null},"w-cobra":{"v":"7be58832","loop":null},"w-cossack":{"v":"beada11e","loop":null},"w-couch":{"v":"6c2f0b9c","loop":null},"w-crossbody":{"v":"d6de1afc","loop":null},"w-dbfly":{"v":"ac888e12","loop":null},"w-doorway":{"v":"99234351","loop":null},"w-downdog":{"v":"1d1f8be1","loop":null},"w-figure4":{"v":"afebc674","loop":null},"w-fold":{"v":"656f481f","loop":null},"w-frog":{"v":"f451a50e","loop":null},"w-gate":{"v":"549ddd89","loop":null},"w-goblet":{"v":"537b4583","loop":null},"w-groinhold":{"v":"9df46b9d","loop":null},"w-halfsplit":{"v":"20662c61","loop":null},"w-happybaby":{"v":"0658ab32","loop":null},"w-highknees":{"v":"bdc00bbb","loop":null},"w-hiplunge":{"v":"c917d115","loop":null},"w-inchworm":{"v":"577c28df","loop":null},"w-kneeschest":{"v":"743a6dfa","loop":null},"w-lateral":{"v":"3cb2a7d3","loop":null},"w-legswing":{"v":"fcf623c6","loop":null},"w-levator":{"v":"d166c57a","loop":null},"w-lizard":{"v":"7cc08ab2","loop":null},"w-lunge":{"v":"63866dc2","loop":null},"w-lyingham":{"v":"fe759cfe","loop":null},"w-necktilt":{"v":"22924b2f","loop":null},"w-neckturn":{"v":"5af43185","loop":null},"w-passthrough":{"v":"10bfce31","loop":null},"w-pigeon":{"v":"a89b8f65","loop":null},"w-postwall":{"v":"b8e7a79c","loop":null},"w-pullover":{"v":"15239280","loop":null},"w-puppy":{"v":"058ca523","loop":null},"w-quad":{"v":"1b58687d","loop":null},"w-rdlhold":{"v":"06b1b1c0","loop":null},"w-seatedtwist":{"v":"09e1504d","loop":null},"w-sidebend":{"v":"6f735ad6","loop":null},"w-sidequad":{"v":"5a2dfb1a","loop":null},"w-sideswing":{"v":"484561d0","loop":null},"w-skatestance":{"v":"82716257","loop":null},"w-sphinx":{"v":"4fdcb7fe","loop":null},"w-standfold":{"v":"b34553d0","loop":null},"w-suitcase":{"v":"45e68e4c","loop":null},"w-thread":{"v":"d2486033","loop":null},"w-torsotwist":{"v":"890d2d43","loop":null},"w-twist":{"v":"f2c23353","loop":null},"w-walklunge":{"v":"7d9e101b","loop":null},"walklunge":{"v":"cb874fd0","loop":null}};
 const PIC_W = [192, 640, 960];
 let PIC_BASE = 'figures/';
 
@@ -1905,7 +1905,8 @@ const CHEV = '<svg aria-hidden="true" class="chev" viewBox="0 0 24 24"><path d="
 
 function art(st, mirror, move = false, px = 64) {
   const circle = look.circle === 'mixed' ? st.circle : look.circle;
-  if (picFor(st.id)) return picPlate(st, circle, mirror, move, px);
+  const key = picFor(st.id);
+  if (key) return picPlate(st, circle, mirror, move, px, key);
   return artDrawn(st, circle, mirror, move);
 }
 function artDrawn(st, circle, mirror, move) {
@@ -1916,16 +1917,20 @@ function artDrawn(st, circle, mirror, move) {
   return `<svg viewBox="0 0 200 200" class="plate" role="img" aria-label="${esc(st.name)}"><circle cx="100" cy="100" r="96" fill="${circle}"/></svg>`;
 }
 
-const picFor = (id) => !!PICS[id] && profile.guide === 'man';
-const PIC_SECOND_SIDE = new Set(['lunge', 'hiplunge', 'quad', 'groinhold', 'anklerock', 'legswing', 'gate', 'ankledf',
-  'bandcalf', 'bandham', 'bandlat', 'bandquad', 'bandcross', 'chairfig4', 'chairham', 'couch', 'figure4', 'halfsplit', 'lizard',
+const picFor = (id) => { const k = (profile.guide === 'man' ? '' : 'w-') + id; return PICS[k] ? k : null; };
+const PIC_SECOND_SIDE = new Set(['lunge', 'hiplunge', 'quad', 'groinhold', 'anklerock', 'gate', 'ankledf',
+  'bandcalf', 'bandham', 'bandquad', 'bandcross', 'chairfig4', 'chairham', 'couch', 'figure4', 'halfsplit', 'lizard',
   'calfdrop', 'lyingham', 'pigeon', 'sidequad', 'suitcase', 'twist', 'thread', 'calf', 'cossack']);
+const W_PIC_SECOND_SIDE = new Set(['lunge', 'pigeon', 'figure4', 'quad', 'calf', 'necktilt', 'crossbody', 'twist', 'thread',
+  'halfsplit', 'lizard', 'lyingham', 'sidequad', 'couch', 'seatedtwist', 'chairham', 'bandham', 'bandadd', 'bandcross',
+  'bandquad', 'bandcalf', 'bandlat', 'calfdrop', 'suitcase', 'legswing', 'sideswing', 'anklerock', 'ankledf', 'hiplunge']);
+const picSecondSide = (key) => key.startsWith('w-') ? W_PIC_SECOND_SIDE.has(key.slice(2)) : PIC_SECOND_SIDE.has(key);
 const picSrc = (id, w) => `${PIC_BASE}${id}-${w}.webp?v=${PICS[id].v}`;
 const picSet = (id) => PIC_W.map(w => `${picSrc(id, w)} ${w}w`).join(', ');
 const PLAYER_SIZES = 'min(82vw, 360px)';
-function picPlate(st, circle, mirror, big, px) {
+function picPlate(st, circle, mirror, big, px, key = st.id) {
   return `<span class="plate picplate" style="background:${circle}" data-circle="${circle}" data-name="${esc(st.name)}" data-id="${st.id}"${mirror ? ' data-mirror="1"' : ''}${big ? ' data-move="1"' : ''}>`
-    + `<img class="pic${(PIC_SECOND_SIDE.has(st.id) ? !mirror : mirror) ? ' mirror' : ''}" src="${picSrc(st.id, 640)}" srcset="${picSet(st.id)}" sizes="${big ? PLAYER_SIZES : px + 'px'}" `
+    + `<img class="pic${(picSecondSide(key) ? !mirror : mirror) ? ' mirror' : ''}" src="${picSrc(key, 640)}" srcset="${picSet(key)}" sizes="${big ? PLAYER_SIZES : px + 'px'}" `
     + `width="${PIC_W[1]}" height="${PIC_W[1]}" alt="${esc(st.name)}" decoding="async" ${big ? 'loading="eager" fetchpriority="high"' : 'loading="lazy"'}></span>`;
 }
 function picFallback(img) {
@@ -1933,11 +1938,11 @@ function picFallback(img) {
   plate.outerHTML = st ? artDrawn(st, plate.dataset.circle, plate.dataset.mirror === '1', plate.dataset.move === '1')
     : `<svg viewBox="0 0 200 200" class="plate" role="img" aria-label="${esc(plate.dataset.name)}"><circle cx="100" cy="100" r="96" fill="${esc(plate.dataset.circle)}"/></svg>`;
 }
-const picLine = () => { $('safetyPictures').hidden = !Object.keys(PICS).some(picFor); };
+const picLine = () => { $('safetyPictures').hidden = !STRETCHES.some(st => picFor(st.id)); };
 picLine(); $('safetyBtn').addEventListener('click', picLine);
 document.addEventListener('error', (e) => { if (e.target instanceof HTMLImageElement && e.target.classList.contains('pic')) picFallback(e.target); }, true);
 function picWarm(items) {
-  for (const id of new Set(items.map(it => it.st.id))) if (picFor(id)) { const im = new Image(); im.decoding = 'async'; im.sizes = PLAYER_SIZES; im.srcset = picSet(id); im.src = picSrc(id, 640); }
+  for (const id of new Set(items.map(it => it.st.id))) { const k = picFor(id); if (k) { const im = new Image(); im.decoding = 'async'; im.sizes = PLAYER_SIZES; im.srcset = picSet(k); im.src = picSrc(k, 640); } }
 }
 const picMotion = (id) => !!(PICS[id] && PICS[id].loop) && !reduceMotion();
 
@@ -2108,11 +2113,11 @@ function renderHomeProgress() {
     el.innerHTML = `<span class="pgtext"><b>Your week starts with your first routine</b><small>Weekly goal: ${goal} day${goal === 1 ? '' : 's'}</small></span>${CHEV}`;
     el.setAttribute('aria-label', 'No sessions yet. Open History'); return;
   }
-  const s = progressStats(h, goal), w = s.week, pct = Math.round(s.meter.score * 100);
-  el.innerHTML = `<span class="pgtext"><b>${w.doneDays} of ${goal} day${goal === 1 ? '' : 's'}<small>this week</small></b>
+  const s = progressStats(h, goal), w = s.week, pct = Math.round(s.meter.score * 100), over = w.doneDays > goal;
+  el.innerHTML = `<span class="pgtext"><b>${over ? `${w.doneDays} days` : `${w.doneDays} of ${goal} day${goal === 1 ? '' : 's'}`}<small>this week${over ? ` (goal ${goal})` : ''}</small></b>
       </span>
     <span class="pgpct"><b>${pct}%</b><small>consistency</small></span>${CHEV}`;
-  el.setAttribute('aria-label', `${w.doneDays} of ${goal} days this week, ${pct}% consistency. Open History`);
+  el.setAttribute('aria-label', `${over ? `${w.doneDays} days this week (goal ${goal})` : `${w.doneDays} of ${goal} days this week`}, ${pct}% consistency. Open History`);
 }
 $('homeProgress').onclick = () => { renderHistory(); show('history'); };
 $('browseAll').onclick = () => { renderExplore(); show('explore'); };
@@ -2964,7 +2969,8 @@ $('closeBtn').onclick = closePlayer;
 function renderDone(saved, done, total) {
   const h = histGet(), goal = look.goal, w = progressStats(h, goal).week, s = weeklyStreak(h, goal);
   $('doneCount').textContent = `${done} of ${total}`;
-  $('doneWeek').textContent = `${w.doneDays} of ${goal}`;
+  $('doneWeek').textContent = w.doneDays > goal ? String(w.doneDays) : `${w.doneDays} of ${goal}`;
+  $('doneWeek').nextElementSibling.textContent = w.doneDays > goal ? `days this week (goal ${goal})` : 'days this week';
   $('doneDots').innerHTML = weekDotsHTML(w.days); $('doneDots').setAttribute('aria-label', weekDotsLabel(w.days));
   $('doneStreak').innerHTML = streakTitle(s); $('doneStreakSub').textContent = streakMessage(s, goal);
   $('doneFlame').classList.toggle('lit', s.current > 0);
@@ -3301,7 +3307,7 @@ function renderHistory() {
   $('histEmptyGoal').textContent = `Your weekly goal is ${goal} day${goal === 1 ? '' : 's'}. You can change it in Settings.`;
   if (!h.length) return;
   const w = P_.week;
-  $('wkCount').innerHTML = `<b>${w.doneDays}</b> of ${goal} day${goal === 1 ? '' : 's'}`;
+  $('wkCount').innerHTML = w.doneDays > goal ? `<b>${w.doneDays}</b> days (goal ${goal})` : `<b>${w.doneDays}</b> of ${goal} day${goal === 1 ? '' : 's'}`;
   $('wkNote').textContent = w.doneDays >= goal ? 'Weekly goal reached' : 'this week';
   $('wkDots').innerHTML = w.days.map((d, i) => `<span class="wd${d.done ? ' done' : ''}${d.today ? ' today' : ''}${d.future ? ' future' : ''}" title="${d.date.toLocaleDateString(undefined, { weekday: 'long' })}${d.done ? ', stretched' : ''}"><i></i><small>${'MTWTFSS'[i]}</small></span>`).join('');
   $('wkDots').setAttribute('aria-label', weekDotsLabel(w.days));
@@ -3432,14 +3438,14 @@ function whyLine(t, p) {
   if (p.target) parts.push(`about ${Math.max(1, Math.round(t.total / 60))} min`);
   if (t.notes.avoided.size) parts.push('no ' + [...t.notes.avoided].map(a => ({ kneeling: 'kneeling', floor: 'floor work', overhead: 'overhead', balance: 'balancing' }[a])).join(' or '));
   if (t.notes.supported) parts.push('chair & wall options');
-  if (p.hold) parts.push(`${p.hold} s holds`);
+  if (p.hold && !R(t.id).dynamic) parts.push(`${p.hold} s holds`);
   return parts.slice(0, 4).join(', ');
 }
 
 let REC_MEMO = { key: null, list: null };
 function recommendations(n = 3) {
   const raw = Platform.storage.get(HIST_KEY);
-  const key = JSON.stringify([profile, look.hold, raw, hasRoutineAnswers() ? 0 : new Date().getHours()]);
+  const key = JSON.stringify([profile, look.hold, raw, hasRoutineAnswers() ? 0 : new Date().getHours(), new Date().toDateString()]);
   if (REC_MEMO.key !== key) REC_MEMO = { key, list: recommendationsAll() };
   return REC_MEMO.list.slice(0, n);
 }
@@ -3448,8 +3454,11 @@ const hockeyRoles = () => (profile.hockey || []).filter(x => x !== 'none');
 const roleHockeyIds = () => [...new Set(hockeyRoles().flatMap(x => HOCKEY_ROLE_ROUTINES[x] || []))];
 const HOCKEY_WHY = { 'hockey-pre': 'For players, before the game', 'hockey-post': 'For players, after the game', 'ref-pre': 'For officials, before the game',
   'ref-between': 'For officials, between games', 'ref-post': 'For officials, after the game', 'ref-recovery': 'For officials, at the end of the night' };
+function roleIdsToday() { const ids = roleHockeyIds(), today = new Date().toDateString(), h = histGet();
+  const done = new Set(h.filter(x => new Date(x.at).toDateString() === today).map(x => x.id));
+  return ids.filter(id => !done.has(id)).concat(ids.filter(id => done.has(id))); }
 function recommendationsAll(n = 99) {
-  const roleIds = roleHockeyIds();
+  const roleIds = roleIdsToday();
   if (!hasRoutineAnswers()) {
     const h = new Date().getHours();
     const [pick, why] = h < 11 ? ['first-light', 'Good for mornings'] : h < 17 ? ['desk-reset', 'A midday reset'] : ['lights-out', 'Winds you down for bed'];
@@ -3977,10 +3986,14 @@ $('remOff').onclick = () => remPhoneOff();
 remPhoneSync();
 
 const PLAN_KEY = 'meflex.plan', PLAN_DAYS = 7;
-const planAnswersKey = () => JSON.stringify(['age', 'level', 'focus', 'equipment', 'minutes', 'avoid'].map(k => Array.isArray(profile[k]) ? profile[k].slice().sort() : profile[k] ?? null));
+const planAnswersKey = () => JSON.stringify(['age', 'level', 'focus', 'equipment', 'minutes', 'avoid'].map(k => Array.isArray(profile[k]) ? profile[k].slice().sort() : profile[k] ?? null)
+  .concat(hockeyRoles().length ? [hockeyRoles().slice().sort()] : []));
+const planHockey = (role) => role === 'ref' ? ['ref-pre', 'ref-post'] : (HOCKEY_ROLE_ROUTINES[role] || []).slice(0, 2);
+const PLAN_DESK = new Set(['desk', 'office']);
 const planMissing = () => ['level', 'minutes', 'focus'].filter(k => k === 'focus' ? !(profile.focus || []).length : !profile[k]);
 function planPick() {
-  const recs = recommendations(ROUTINES.length).filter(x => x.r.cat !== 'hockey'), out = [], cats = new Set();
+  const roles = hockeyRoles(), hk = [...new Set(roles.flatMap(planHockey))].filter(id => R(id)).slice(0, 2);
+  const recs = recommendations(ROUTINES.length).filter(x => x.r.cat !== 'hockey' && !(hk.length && PLAN_DESK.has(x.r.cat))), out = hk.map(planRec), cats = new Set(out.map(() => 'hockey'));
   const ids = (x) => new Set((x.plan ? x.plan.items.map(([id]) => id) : x.r.items.map(([id]) => id)));
   const same = (a, b) => { const A = ids(a), B = ids(b); let n = 0; A.forEach(i => { if (B.has(i)) n++; }); return n / Math.max(1, Math.min(A.size, B.size)) > 0.6; };
   const fresh = (x) => !out.some(y => same(x, y));
